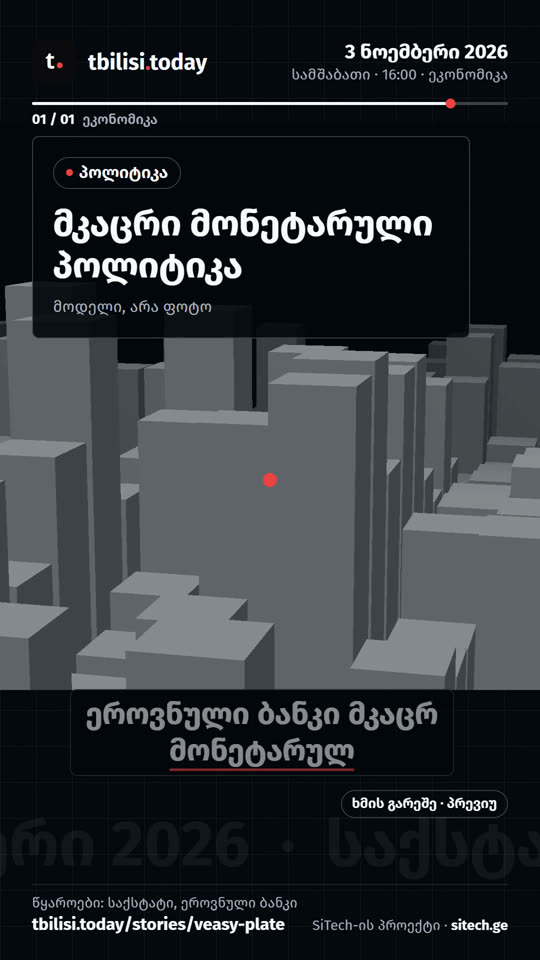
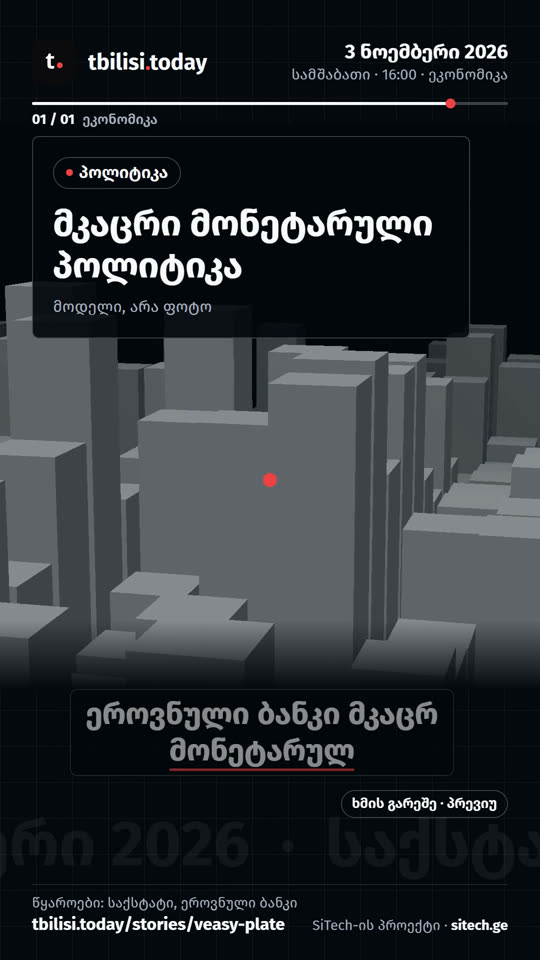
docs(plates): closing round evidence and new proof frames

Changed region(s): [[0.0, 0.6562, 1.0, 0.7188]]

diff --git a/docs/research/plates-core-result.md b/docs/research/plates-core-result.md
@@ -95,3 +95,16 @@ players, frames not re-rendered after it), a dot with a job (the example plate's
 kind, not of the core) and quieter chrome (caption, watermark: not this lane's).
 Not met literally: `engine plate example --seconds 4` was run at 6 s and 1 s; the cache answer is 0.2 s in process
 (`test_second_call_...` holds <1 s) but 1.3-2.4 s as a CLI process on this loaded machine (interpreter start-up).
+
+## 9. Closing round (2026-11-07, after the integrating session's four points)
+
+1. Cache hit: `engine plate` now takes an early path before the engine's imports, and `plates.make` answers a repeat call from
+   an index of finished answers keyed by file stats (no node, no brand loading; `test_a_repeat_call_needs_neither_node_nor_the_packs`).
+   Measured as a CLI process: 594-668 ms, with the machine's CPU at 100% from other lanes' work (before: 1.3-2.4 s).
+2. `engine plate example --seconds 4`, fresh home: first call 94 s (bake 256 ms a frame + toning four clips for both packs and
+   both themes), second call `cached: true` in 594 and 650 ms.
+3. Both proof films re-rendered with the bottom fade: `qa` probe problems none, flash passes (area 0.0), only "no audio track"
+   (silent voice). New frames in `docs/research/plates-core-frames/`. Critic (sonnet, frames only): composed frame the stronger,
+   fade clean; suggested a more opaque card in the Remotion look and a brighter label. Not changed: the card is 92% on purpose
+   (a constant in `plate.tsx`), listed for the owner.
+4. `tsc --noEmit` clean, `engine selftest` problems none (goldens unchanged); full suite below.
